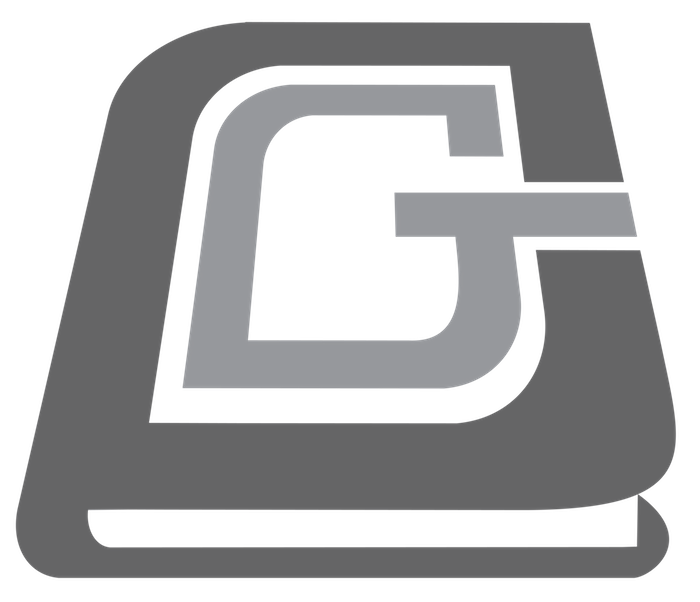
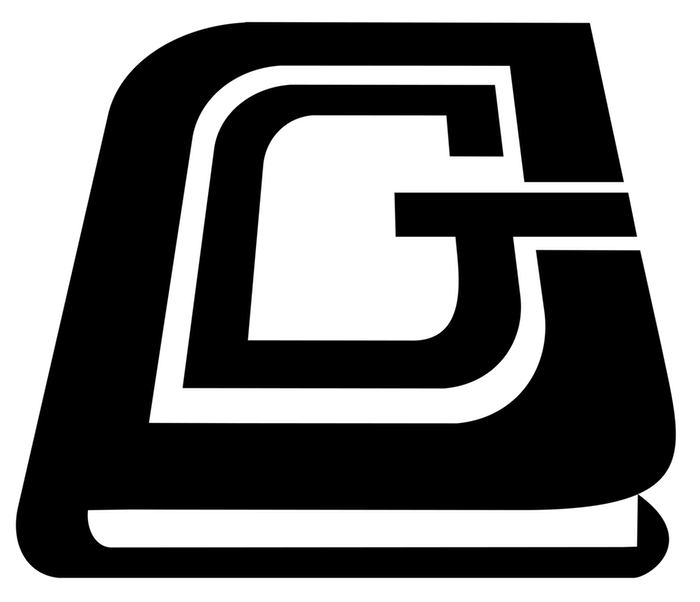
Added my local changes ot the origina master
+ Black Logo
+ More Content for vid
+ Job mini-icons
+ Nav Bar Backing

diff --git a/index.html b/index.html
@@ -480,11 +480,11 @@
 		
 				<div id="ribbon-a" class="ribbon"><h6>ARTISAN CAREERS</h6></div>
 				<ul data-role="listview" data-inset="true" data-filter="true" >
-					<li><a href="#page8" data-transition="fade">Graphic Designer</a></li>
-					<li><a href="#page8">Carpenter</a></li>
-					<li><a href="#page8">Baker</a></li>
-					<li><a href="#page8">Chef</a></li>
-					<li><a href="#page8">Interior Designer</a></li> 
+					<li><a href="#page8" data-transition="fade"><span class="filter"><img src="css/images/ArtisanBadge500.png"/></span>Graphic Designer</a></li>
+					<li><a href="#page8"><span class="filter"><img src="css/images/ArtisanBadge500.png"/></span>Carpenter</a></li>
+					<li><a href="#page8"><span class="filter"><img src="css/images/ArtisanBadge500.png"/></span>Baker</a></li>
+					<li><a href="#page8"><span class="filter"><img src="css/images/ArtisanBadge500.png"/></span>Chef</a></li>
+					<li><a href="#page8"><span class="filter"><img src="css/images/ArtisanBadge500.png"/></span>Interior Designer</a></li> 
 				</ul>
 			</div>
 			
@@ -523,11 +523,11 @@
 		
 				<div id="ribbon-r" class="ribbon"><h6>RATIONAL CAREERS</h6></div>
 				<ul data-role="listview" data-inset="true" data-filter="true" >
-					<li><a href="#page10" data-transition="fade">Physicist</a></li>
-					<li><a href="#page10">Systems Analyst</a></li>
-					<li><a href="#page10">Lab Technician </a></li>
-					<li><a href="#page10">Claims Adjustor</a></li>
-					<li><a href="#page10">Accountant</a></li> 
+					<li><a href="#page10" data-transition="fade"><span class="filter"><img src="css/images/RationalBadge500.png"/>Physicist</a></li>
+					<li><a href="#page10"><span class="filter"><img src="css/images/RationalBadge500.png"/>Systems Analyst</a></li>
+					<li><a href="#page10"><span class="filter"><img src="css/images/RationalBadge500.png"/>Lab Technician </a></li>
+					<li><a href="#page10"><span class="filter"><img src="css/images/RationalBadge500.png"/>Claims Adjustor</a></li>
+					<li><a href="#page10"><span class="filter"><img src="css/images/RationalBadge500.png"/>Accountant</a></li> 
 				</ul>
 			</div>
 			
@@ -552,11 +552,11 @@
 		
 				<div id="ribbon-g" class="ribbon"><h6>GUARDIAN CAREERS</h6></div>
 				<ul data-role="listview" data-inset="true" data-filter="true" >
-					<li><a href="#page11" data-transition="fade">General Practitioner</a></li>
-					<li><a href="#page11">Human Resources Officer</a></li>
-					<li><a href="#page11">Police Officer </a></li>
-					<li><a href="#page11">Lawyer</a></li>
-					<li><a href="#page11">Nurse</a></li> 
+					<li><a href="#page11" data-transition="fade"><span class="filter"><img src="css/images/GuardianBadge500.png"/></span>General Practitioner</a></li>
+					<li><a href="#page11"><span class="filter"><img src="css/images/GuardianBadge500.png"/>Human Resources Officer</a></li>
+					<li><a href="#page11"><span class="filter"><img src="css/images/GuardianBadge500.png"/>Police Officer </a></li>
+					<li><a href="#page11"><span class="filter"><img src="css/images/GuardianBadge500.png"/>Lawyer</a></li>
+					<li><a href="#page11"><span class="filter"><img src="css/images/GuardianBadge500.png"/>Nurse</a></li> 
 				</ul>
 			</div>
 			
@@ -581,11 +581,11 @@
 		
 				<div id="ribbon-i" class="ribbon"><h6>IDEALIST CAREERS</h6></div>
 				<ul data-role="listview" data-inset="true" data-filter="true" >
-					<li><a href="#page12" data-transition="fade">Teacher</a></li>
-					<li><a href="#page12">Civil Rights Advocate</a></li>
-					<li><a href="#page12">Guidance Councellor </a></li>
-					<li><a href="#page12">Psychatrist</a></li>
-					<li><a href="#page12">Journalist</a></li> 
+					<li><a href="#page12" data-transition="fade"><span class="filter"><img src="css/images/IdealistBadge500.png"/>Teacher</a></li>
+					<li><a href="#page12"><span class="filter"><img src="css/images/IdealistBadge500.png"/>Civil Rights Advocate</a></li>
+					<li><a href="#page12"><span class="filter"><img src="css/images/IdealistBadge500.png"/>Guidance Councellor </a></li>
+					<li><a href="#page12"><span class="filter"><img src="css/images/IdealistBadge500.png"/>Psychatrist</a></li>
+					<li><a href="#page12"><span class="filter"><img src="css/images/IdealistBadge500.png"/>Journalist</a></li> 
 				</ul>
 			</div>
 			
@@ -615,17 +615,17 @@
 				
 					<div id="rationalContainer" data-role="collapsible" data-collapsed="true" data-iconpos="right">
 				        <h3>How to get into the field</h3>
-				        <p>Sed ut perspiciatis unde omnis iste natus error sit voluptatem accusantium doloremque laudantium, totam rem aperiam, eaque ipsa quae ab illo inventore veritatis et quasi architecto beatae vitae dicta sunt explicabo. Nemo enim ipsam voluptatem quia voluptas sit aspernatur aut odit aut fugit, sed quia consequuntur magni dolores eos qui ratione voluptatem sequi nesciunt. Neque porro quisquam est, qui dolorem ipsum quia dolor sit amet, consectetur, adipisci velit, sed quia non numquam eius modi tempora incidunt ut labore et dolore magnam aliquam quaerat voluptatem.</p>
+				        <p>The graphic design industry is about constant collaboration and connection. As such, making valuable connections and building professional relationships is important for breaking in to the field. A strong portfolio of work tailored to the area of work you wish to break into is the main vessel by which you will display your work talent, along with interviewing and conversational skills.</p>
 				    </div>
 				    
 					<div id="rationalContainer" data-role="collapsible" data-collapsed="true" data-iconpos="right">
 				        <h3>What to expect on the job</h3>
-				        <p>Ut enim ad minima veniam, quis nostrum exercitationem ullam corporis suscipit laboriosam, nisi ut aliquid ex ea commodi consequatur? Quis autem vel eum iure reprehenderit qui in ea voluptate velit esse quam nihil molestiae consequatur, vel illum qui dolorem eum fugiat quo voluptas nulla pariatur? At vero eos et accusamus et iusto odio dignissimos ducimus qui blanditiis praesentium voluptatum deleniti atque corrupti. </p>
+				        <p>In doing design work, regardless of the respective sector you are working within, you will be interacting and involved with clients on various projects. Most work is done in teams and will involve collaborating and co-ordinating with 2 or more individuals in order to complete projects from concept to delivery. Dealing with printers, productions companies as well as for-hire free lancers is also a large part of the daily work in the graphic design industry. </p>
 				    </div>
 				    
 					<div id="rationalContainer" data-role="collapsible" data-collapsed="true" data-iconpos="right">
 				        <h3>How to be successful in this career</h3>
-				        <p>Quos dolores et quas molestias excepturi sint occaecati cupiditate non provident, similique sunt in culpa qui officia deserunt mollitia animi, id est laborum et dolorum fuga. Et harum quidem rerum facilis est et expedita distinctio. Nam libero tempore, cum soluta nobis est eligendi optio cumque nihil impedit quo minus id quod maxime placeat facere.</p>
+				        <p>What it really comes down to with graphic design in terms of success is openess to input, suggetions and collaboration. As most work is performed in teams, strong team work and collaboration skills are key, so as to produce the highest quality projects that plays on the strengths of each team member, creating a synergy of skills and strengths.</p>
 				    </div>
 				    
 					<div id="rationalContainer" data-role="collapsible" data-collapsed="true" data-iconpos="right">
@@ -659,23 +659,23 @@
 				<ul data-role="collapsable-set" data-inset="true" data-filter="true" >
 				
 					<div id="listing1" data-role="collapsible" data-collapsed="true"  >
-						<h3>Listing 1</h3>
-						<h3>Job information would go here. Specs and basic details. A <a href="http://www.yorku.ca/careers/students/jobsearchprogram/index.htm#rescover">resume</a> is very important in applying to this job</h3>
+						<h3>Senior Designer - Cundari SFP </h3>
+						<p>Looking for individuals with a sharp sense of emerging industry directions and an eye for fresh aeshetics. Strong project managment and teamwork skills are a definite must. Contact us at hello@cundarisfp.com. Note: A <a href="http://www.yorku.ca/careers/students/jobsearchprogram/index.htm#rescover">resume</a> is very important in applying to this job</p>
 					</div>
 					
 					<div id="listing2" data-role="collapsible" data-collapsed="true"  >
-						<h3>Listing 2</h3>
-						<h3>Job information would go here. Specs and basic details. A <a href="http://www.yorku.ca/careers/students/jobsearchprogram/index.htm#cover">cover-letter</a> is very important in applying to this job</h3>
+						<h3>Production Designer - Concrete</h3>
+						<p>Concrete is a large, award winning firm that is currently seeking a designer with a focus on pre-production prep. Ideally applicants must have a strong knowledge of print materials and methods.If you're interested, get in contact with our admin assitant claudia@concrete.ca. Note: A <a href="http://www.yorku.ca/careers/students/jobsearchprogram/index.htm#cover">cover-letter</a> is very important in applying to this job</p>
 					</div>
 					
 					<div id="listing3" data-role="collapsible" data-collapsed="true"  >
-						<h3>Listing 3</h3>
-						<h4>Job information would go here. Specs and basic details. A solid<a href="http://www.yorku.ca/careers/students/jobsearchprogram/index.htm#interview"> interview</a> is very important in landing this position</h4>
+						<h3>Junior Motion Designer - Sapient Nitro</h3>
+						<p>Sapient Nitro is an expansive motion and interactive firm currently seeking fresh new talent with fresh perspectives to bring to the Sapient Nitro team. Note: A solid<a href="http://www.yorku.ca/careers/students/jobsearchprogram/index.htm#interview"> interview</a> is very important in landing this position</p>
 					</div>
 					
 					<div id="listing4" data-role="collapsible" data-collapsed="true"  >
-						<h3>Listing 4</h3>
-						<h3>Job information would go here. Specs and basic details. A well prepared visual portfolio is important for review in this position.</h3>
+						<h3>Art Director - Arcade Agency</h3>
+						<p>After years of award winning work on Canadian Olympic apparel and Nike promotional material, Arcade is looking to expand into a multidisciplinary firm. With this change Arcade is seeking a senior art director with at least 5 years of experience in marketing and promotional work. Note: A well prepared visual portfolio is important for review in this position.</p>
 					</div> 
 					
 					<h3>Want more information?</h3>
@@ -760,22 +760,22 @@
 				
 					<div id="listing1" data-role="collapsible" data-collapsed="true"  >
 						<h3>Listing 1</h3>
-						<h3>Job information would go here. Specs and basic details. A <a href="http://www.yorku.ca/careers/students/jobsearchprogram/index.htm#rescover">resume</a> is very important in applying to this job</h3>
+						<p>Job information would go here. Specs and basic details. A <a href="http://www.yorku.ca/careers/students/jobsearchprogram/index.htm#rescover">resume</a> is very important in applying to this job</p>
 					</div>
 					
 					<div id="listing2" data-role="collapsible" data-collapsed="true"  >
 						<h3>Listing 2</h3>
-						<h3>Job information would go here. Specs and basic details. A <a href="http://www.yorku.ca/careers/students/jobsearchprogram/index.htm#cover">cover-letter</a> is very important in applying to this job</h3>
+						<p>Job information would go here. Specs and basic details. A <a href="http://www.yorku.ca/careers/students/jobsearchprogram/index.htm#cover">cover-letter</a> is very important in applying to this job</p>
 					</div>
 					
 					<div id="listing3" data-role="collapsible" data-collapsed="true"  >
 						<h3>Listing 3</h3>
-						<h4>Job information would go here. Specs and basic details. A solid<a href="http://www.yorku.ca/careers/students/jobsearchprogram/index.htm#interview"> interview</a> is very important in landing this position</h4>
+						<p>Job information would go here. Specs and basic details. A solid<a href="http://www.yorku.ca/careers/students/jobsearchprogram/index.htm#interview"> interview</a> is very important in landing this position</p>
 					</div>
 					
 					<div id="listing4" data-role="collapsible" data-collapsed="true"  >
 						<h3>Listing 4</h3>
-						<h3>Job information would go here. Specs and basic details. A well prepared visual portfolio is important for review in this position.</h3>
+						<p>Job information would go here. Specs and basic details. A well prepared visual portfolio is important for review in this position.</p>
 					</div> 
 					
 					<h3>Want more information?</h3>
@@ -860,22 +860,22 @@
 				
 					<div id="listing1" data-role="collapsible" data-collapsed="true"  >
 						<h3>Listing 1</h3>
-						<h3>Job information would go here. Specs and basic details. A <a href="http://www.yorku.ca/careers/students/jobsearchprogram/index.htm#rescover">resume</a> is very important in applying to this job</h3>
+						<p>Job information would go here. Specs and basic details. A <a href="http://www.yorku.ca/careers/students/jobsearchprogram/index.htm#rescover">resume</a> is very important in applying to this job</p>
 					</div>
 					
 					<div id="listing2" data-role="collapsible" data-collapsed="true"  >
 						<h3>Listing 2</h3>
-						<h3>Job information would go here. Specs and basic details. A <a href="http://www.yorku.ca/careers/students/jobsearchprogram/index.htm#cover">cover-letter</a> is very important in applying to this job</h3>
+						<p>Job information would go here. Specs and basic details. A <a href="http://www.yorku.ca/careers/students/jobsearchprogram/index.htm#cover">cover-letter</a> is very important in applying to this job</p>
 					</div>
 					
 					<div id="listing3" data-role="collapsible" data-collapsed="true"  >
 						<h3>Listing 3</h3>
-						<h4>Job information would go here. Specs and basic details. A solid<a href="http://www.yorku.ca/careers/students/jobsearchprogram/index.htm#interview"> interview</a> is very important in landing this position</h4>
+						<p>Job information would go here. Specs and basic details. A solid<a href="http://www.yorku.ca/careers/students/jobsearchprogram/index.htm#interview"> interview</a> is very important in landing this position</p>
 					</div>
 					
 					<div id="listing4" data-role="collapsible" data-collapsed="true"  >
 						<h3>Listing 4</h3>
-						<h3>Job information would go here. Specs and basic details. A well prepared visual portfolio is important for review in this position.</h3>
+						<p>Job information would go here. Specs and basic details. A well prepared visual portfolio is important for review in this position.</p>
 					</div> 
 					
 					<h3>Want more information?</h3>
@@ -960,22 +960,22 @@
 				
 					<div id="listing1" data-role="collapsible" data-collapsed="true"  >
 						<h3>Listing 1</h3>
-						<h3>Job information would go here. Specs and basic details. A <a href="http://www.yorku.ca/careers/students/jobsearchprogram/index.htm#rescover">resume</a> is very important in applying to this job</h3>
+						<p>Job information would go here. Specs and basic details. A <a href="http://www.yorku.ca/careers/students/jobsearchprogram/index.htm#rescover">resume</a> is very important in applying to this job</p>
 					</div>
 					
 					<div id="listing2" data-role="collapsible" data-collapsed="true"  >
 						<h3>Listing 2</h3>
-						<h3>Job information would go here. Specs and basic details. A <a href="http://www.yorku.ca/careers/students/jobsearchprogram/index.htm#cover">cover-letter</a> is very important in applying to this job</h3>
+						<p>Job information would go here. Specs and basic details. A <a href="http://www.yorku.ca/careers/students/jobsearchprogram/index.htm#cover">cover-letter</a> is very important in applying to this job</p>
 					</div>
 					
 					<div id="listing3" data-role="collapsible" data-collapsed="true"  >
 						<h3>Listing 3</h3>
-						<h4>Job information would go here. Specs and basic details. A solid<a href="http://www.yorku.ca/careers/students/jobsearchprogram/index.htm#interview"> interview</a> is very important in landing this position</h4>
+						<p>Job information would go here. Specs and basic details. A solid<a href="http://www.yorku.ca/careers/students/jobsearchprogram/index.htm#interview"> interview</a> is very important in landing this position</p>
 					</div>
 					
 					<div id="listing4" data-role="collapsible" data-collapsed="true"  >
 						<h3>Listing 4</h3>
-						<h3>Job information would go here. Specs and basic details. A well prepared visual portfolio is important for review in this position.</h3>
+						<p>Job information would go here. Specs and basic details. A well prepared visual portfolio is important for review in this position.</p>
 					</div> 
 					
 					<h3>Want more information?</h3>
